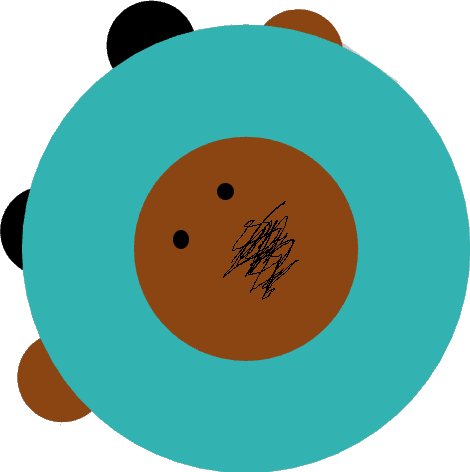
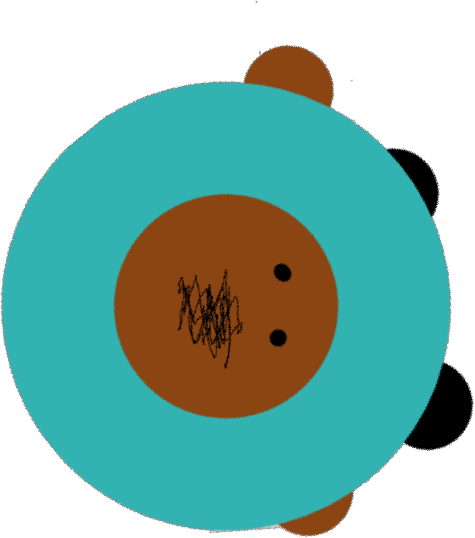
adding in support for rotating textures, except missing y-inversion

diff --git a/ezgui/src/color.rs b/ezgui/src/color.rs
@@ -1,3 +1,4 @@
+use geom::Angle;
 use serde_derive::{Deserialize, Serialize};
 use std::fmt;
 
@@ -8,8 +9,9 @@ pub enum Color {
     // (The texture ID to pass to the shader, (texture width, height)). Tiles seamlessly through
     // all of map-space.
     TileTexture(f32, (f64, f64)),
-    // Stretches the entire texture to fit the entire polygon.
-    StretchTexture(f32),
+    // Stretches the entire texture to fit the entire polygon. Rotates from the center of the
+    // polygon. Not sure what this means for anything but circles right now.
+    StretchTexture(f32, Angle),
     Hatching,
 }
 
@@ -20,7 +22,9 @@ impl fmt::Display for Color {
             Color::TileTexture(id, (w, h)) => {
                 write!(f, "Color::TileTexture({}, width={}, height={})", id, w, h)
             }
-            Color::StretchTexture(id) => write!(f, "Color::StretchTexture({})", id),
+            Color::StretchTexture(id, angle) => {
+                write!(f, "Color::StretchTexture({}, {})", id, angle)
+            }
             Color::Hatching => write!(f, "Color::Hatching"),
         }
     }
@@ -80,5 +84,12 @@ impl Color {
         let g = usize::from_str_radix(&raw[3..5], 16).unwrap();
         let b = usize::from_str_radix(&raw[5..7], 16).unwrap();
         Color::rgb(r, g, b)
+    }
+
+    pub fn rotate(&self, angle: Angle) -> Color {
+        match self {
+            Color::StretchTexture(id, _) => Color::StretchTexture(*id, angle),
+            _ => unreachable!(),
+        }
     }
 }

diff --git a/ezgui/src/drawing.rs b/ezgui/src/drawing.rs
@@ -430,11 +430,20 @@ impl<'a> Prerender<'a> {
                         let ty = pt.y() / tex_height;
                         [id, tx as f32, ty as f32, 0.0]
                     }
-                    Color::StretchTexture(id) => {
+                    Color::StretchTexture(id, angle) => {
                         // TODO Cache
                         let b = poly.get_bounds();
-                        let tx = (pt.x() - b.min_x) / (b.max_x - b.min_x);
-                        let ty = (pt.y() - b.min_y) / (b.max_y - b.min_y);
+                        let center = poly.center();
+                        let origin_pt = Pt2D::new(pt.x() - center.x(), pt.y() - center.y());
+                        // TODO Needs Y-inversion!
+                        let (sin, cos) = angle.normalized_radians().sin_cos();
+                        let rot_pt = Pt2D::new(
+                            center.x() + origin_pt.x() * cos - origin_pt.y() * sin,
+                            center.y() + origin_pt.y() * cos + origin_pt.x() * sin,
+                        );
+
+                        let tx = (rot_pt.x() - b.min_x) / (b.max_x - b.min_x);
+                        let ty = (rot_pt.y() - b.min_y) / (b.max_y - b.min_y);
                         [id, tx as f32, ty as f32, 0.0]
                     }
                     Color::Hatching => [10.0, 0.0, 0.0, 0.0],

diff --git a/ezgui/src/event_ctx.rs b/ezgui/src/event_ctx.rs
@@ -3,6 +3,7 @@ use crate::{
     Canvas, Color, GfxCtx, HorizontalAlignment, Line, Prerender, Text, UserInput, VerticalAlignment,
 };
 use abstutil::{elapsed_seconds, Timer, TimerSink};
+use geom::Angle;
 use glium_glyph::glyph_brush::rusttype::Font;
 use glium_glyph::GlyphBrush;
 use std::collections::VecDeque;
@@ -70,7 +71,7 @@ impl<'a> EventCtx<'a> {
                 self.canvas.texture_lookups.insert(
                     filename.to_string(),
                     match tex_type {
-                        TextureType::Stretch => Color::StretchTexture(idx as f32),
+                        TextureType::Stretch => Color::StretchTexture(idx as f32, Angle::ZERO),
                         TextureType::Tile => {
                             Color::TileTexture(idx as f32, (f64::from(dims.0), f64::from(dims.1)))
                         }

diff --git a/game/src/render/pedestrian.rs b/game/src/render/pedestrian.rs
@@ -35,7 +35,7 @@ impl DrawPedestrian {
 
         if use_textures {
             draw_default.push(
-                canvas.texture("assets/pedestrian.png"),
+                canvas.texture("assets/pedestrian.png").rotate(input.facing),
                 body_circle.to_polygon(),
             );
         } else {

diff --git a/geom/src/angle.rs b/geom/src/angle.rs
@@ -8,6 +8,8 @@ use std::fmt;
 pub struct Angle(f64);
 
 impl Angle {
+    pub const ZERO: Angle = Angle(0.0);
+
     pub(crate) fn new(rads: f64) -> Angle {
         // Retain more precision for angles...
         Angle((rads * 10_000_000.0).round() / 10_000_000.0)
